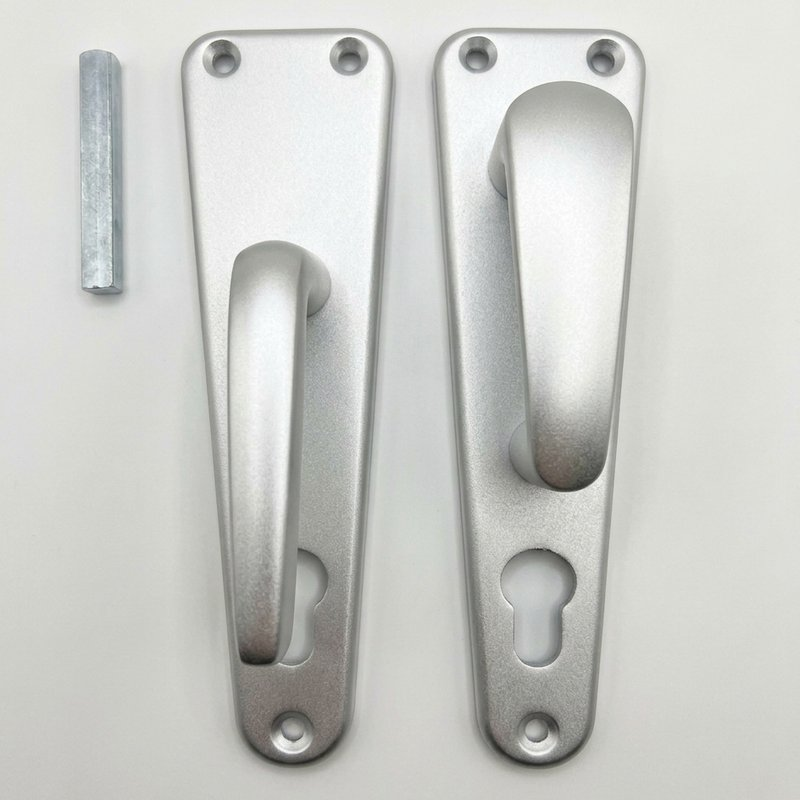
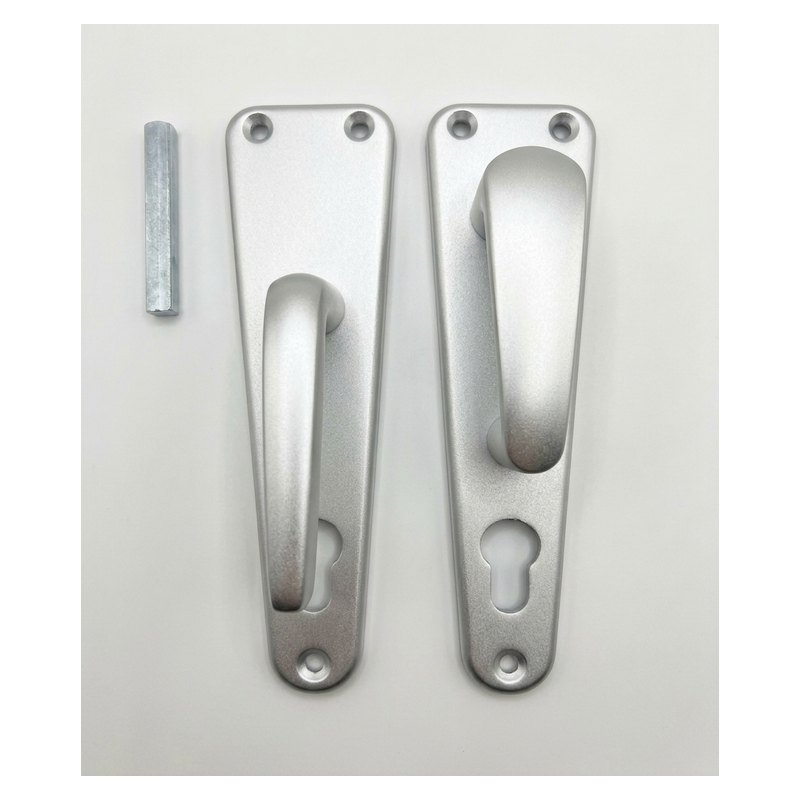
Fotos MANILLA-01 a 04 procesadas con la herramienta oficial (fondo blanco, centradas) y caché de la app de vendedores renovada (v9)
Claude-Session: https://claude.ai/code/session_017oifHvVPpDtm3JGzhPrYZW

diff --git a/vendedores/sw.js b/vendedores/sw.js
@@ -1,5 +1,5 @@
 /* Service worker del catálogo de vendedores. Alcance: solo /vendedores/ (no toca la página pública). */
-const CACHE = 'kc-vend-v8';
+const CACHE = 'kc-vend-v9';
 const SHELL = ['./', 'index.html', 'manifest.json', 'logo.png', 'icon-192.png', 'icon-512.png'];
 self.addEventListener('install', e=>{ e.waitUntil(caches.open(CACHE).then(c=>c.addAll(SHELL)).then(()=>self.skipWaiting())); });
 self.addEventListener('activate', e=>{
